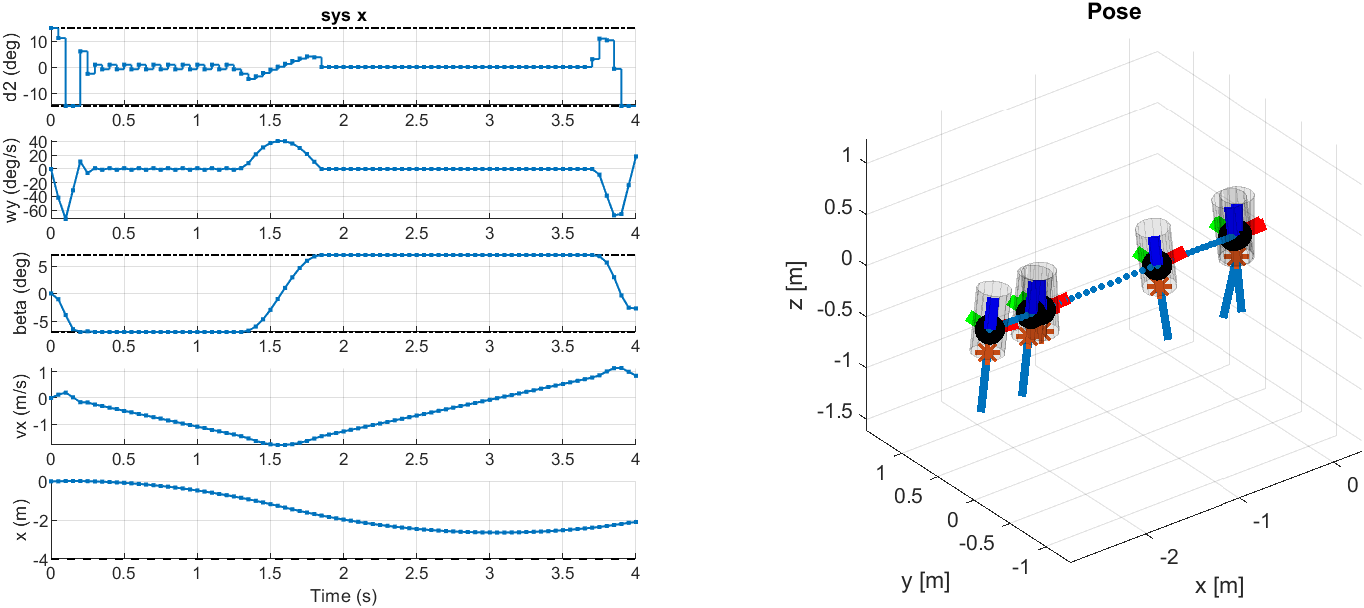
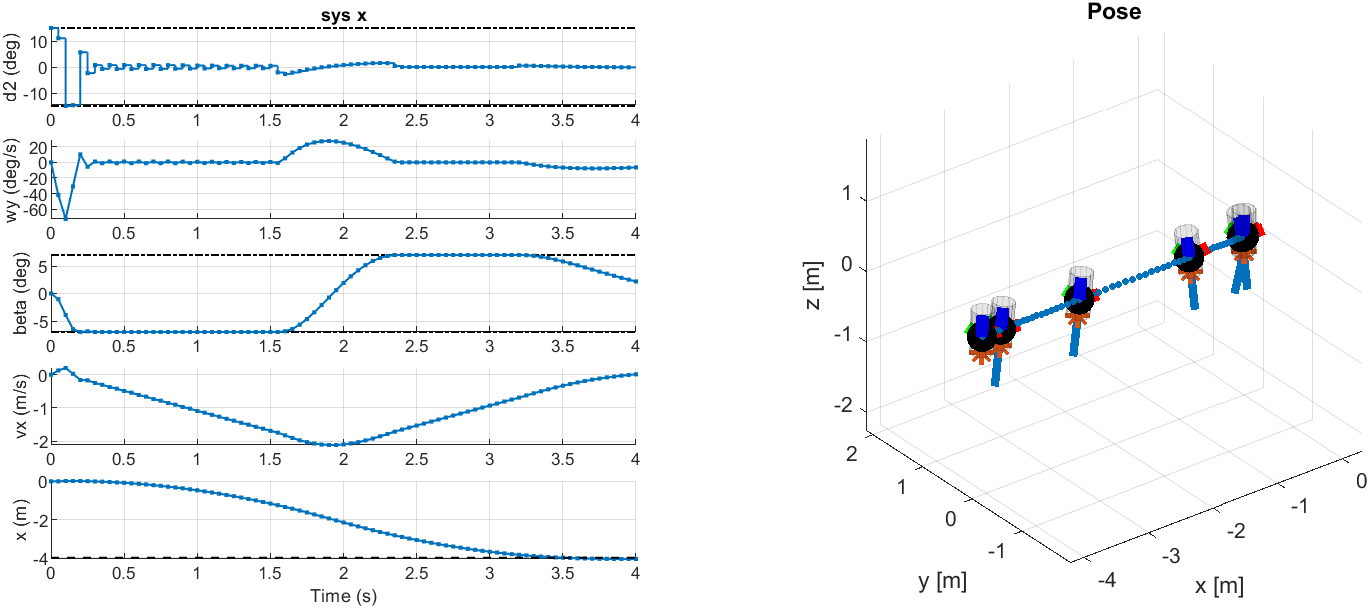
adjusted 4.1 and 4.2

diff --git a/rocket_project/Deliverable_4_2/MpcControl_roll.m b/rocket_project/Deliverable_4_2/MpcControl_roll.m
@@ -33,11 +33,32 @@ classdef MpcControl_roll < MpcControlBase
             %       the DISCRETE-TIME MODEL of your system
             
             % SET THE PROBLEM CONSTRAINTS con AND THE OBJECTIVE obj HERE
-            Q = 10*eye(nx);
-%             Q(1,1) = 10*Q(1,1);   % speed
-            Q(2,2) = Q(2,2)*10;     % position
-            R = eye(nu);
-            [~,Pf,~] = dlqr(mpc.A, mpc.B, Q, R);
+            
+            Hu = [1; -1];
+            hu = [20; 20];
+
+            Q = diag([10, 100]);    % sharp EPFL
+            R = diag(1);            % sharp EPFL
+            Q = diag([1, 10]);      % good EPFL
+            R = diag(0.01);          % good EPFL
+%             Q = diag([1, 50]);    % ~weights from 3.1
+%             R = diag(0.1);        % ~weights from 3.1
+            
+             % K is the LQR controller, P is the final cost
+            [K,Pf,~] = dlqr(mpc.A, mpc.B, Q, R);
+            K = -K;
+            Ak = mpc.A+mpc.B*K;
+
+            % the combined constraints of state and input with controller K
+            % in closed loop
+            Hxu = Hu*K;
+            hxu = hu;
+
+            % the terminal set of the controller K in closed loop
+            Poly_xu = polytope(Hxu, hxu);
+            term_set = max_contr_invar_set(Poly_xu, Ak);
+            [Hxf, hxf] = double(term_set); % terminal constraint
+
             obj = 0;
             con = [];
             for k = 1:N-1
@@ -45,7 +66,8 @@ classdef MpcControl_roll < MpcControlBase
                 obj   = obj + (X(:,k)-x_ref)'*Q*(X(:,k)-x_ref) + (U(:,k)-u_ref)'*R*(U(:,k)-u_ref);
             end
             obj = obj + (X(:,N)-x_ref)'*Pf*(X(:,N)-x_ref);
-            
+            con = [con, Hxf*X(:,N) <= hxf];
+
             % YOUR CODE HERE YOUR CODE HERE YOUR CODE HERE YOUR CODE HERE
             %%%%%%%%%%%%%%%%%%%%%%%%%%%%%%%%%%%%%%%%%%%%%%%%%%%%%%%%%%%%%%%
             
@@ -79,7 +101,7 @@ classdef MpcControl_roll < MpcControlBase
             Q = eye(nx);
             obj = (xs - ref.*[0;1])'*Q*(xs - ref.*[0;1]);
             con = [xs == mpc.A*xs + mpc.B*us, us >= -20, us <= 20];
-
+%             con = [xs-ref == mpc.A*(xs-ref) + mpc.B*us, us >= -20, us <= 20];
             % YOUR CODE HERE YOUR CODE HERE YOUR CODE HERE YOUR CODE HERE
             %%%%%%%%%%%%%%%%%%%%%%%%%%%%%%%%%%%%%%%%%%%%%%%%%%%%%%%%%%%%%%%
             

diff --git a/rocket_project/Deliverable_4_1/MpcControl_z.m b/rocket_project/Deliverable_4_1/MpcControl_z.m
@@ -51,25 +51,23 @@ classdef MpcControl_z < MpcControlBase
             hu = [80-56.66667; -(50-56.66667)];
 
             % costs for the LQR controller
-            Q = 10.*eye(nx);
-            Q(2,2) = Q(2,2)*50;
-            Q(1,1) = Q(1,1);
-            R = 0.1*eye(nu);
+            Q = diag([2, 500]);
+            R = diag(0.1);
 
             % K is the LQR controller, P is the final cost
             [K,Pf,~] = dlqr(mpc.A, mpc.B, Q, R);
-%             K = -K;
-%             Ak = mpc.A+mpc.B*K;
+            K = -K;
+            Ak = mpc.A+mpc.B*K;
 
             % the combined constraints of state and input with controller K
             % in closed loop
-%             Hxu = Hu*K;
-%             hxu = hu;
+            Hxu = Hu*K;
+            hxu = hu;
 
             % the terminal set of the controller K in closed loop
-%             Poly_xu = polytope(Hxu, hxu);
-%             term_set = max_contr_invar_set(Poly_xu, Ak);
-%             [Hxf, hxf] = double(term_set); % terminal constraint
+            Poly_xu = polytope(Hxu, hxu);
+            term_set = max_contr_invar_set(Poly_xu, Ak);
+            [Hxf, hxf] = double(term_set); % terminal constraint
 
             % SET THE PROBLEM CONSTRAINTS con AND THE OBJECTIVE obj HERE
             obj = 0;
@@ -81,7 +79,7 @@ classdef MpcControl_z < MpcControlBase
                 obj   = obj + (X(:,k)-x_ref)'*Q*(X(:,k)-x_ref) + (U(:,k)-u_ref)'*R*(U(:,k)-u_ref);
             end
             obj = obj + (X(:,N)-x_ref)'*Pf*(X(:,N)-x_ref);
-%             con = [con, Hxf*X(:,N) <= hxf];
+            con = [con, Hxf*X(:,N) <= hxf];
             
             % YOUR CODE HERE YOUR CODE HERE YOUR CODE HERE YOUR CODE HERE
             %%%%%%%%%%%%%%%%%%%%%%%%%%%%%%%%%%%%%%%%%%%%%%%%%%%%%%%%%%%%%%%

diff --git a/rocket_project/Deliverable_3_1/MpcControl_roll.m b/rocket_project/Deliverable_3_1/MpcControl_roll.m
@@ -32,9 +32,34 @@ classdef MpcControl_roll < MpcControlBase
             % NOTE: The matrices mpc.A, mpc.B, mpc.C and mpc.D are
             %       the DISCRETE-TIME MODEL of your system
             
+            % constraints
+            Hu = [1; -1];
+            hu = [20; 20];
+
             % SET THE PROBLEM CONSTRAINTS con AND THE OBJECTIVE obj HERE
             Q = diag([1,20]);
             R = diag(0.1);
+
+             % K is the LQR controller, P is the final cost
+            [K,Pf,~] = dlqr(mpc.A, mpc.B, Q, R);
+            K = -K;
+            Ak = mpc.A+mpc.B*K;
+
+            % the combined constraints of state and input with controller K
+            % in closed loop
+            Hxu = Hu*K;
+            hxu = hu;
+
+            % the terminal set of the controller K in closed loop
+            Poly_xu = polytope(Hxu, hxu);
+            term_set = max_contr_invar_set(Poly_xu, Ak);
+            [Hxf, hxf] = double(term_set); % terminal constraint
+
+             % plot the polytope
+            f = figure();
+            term_set.plot()
+            title("Terminal set polytope - roll")
+            exportgraphics(f, "Deliverable_3_1/Figures/3.1_roll_terminal_set.png")
 
             [~,Pf,~] = dlqr(mpc.A, mpc.B, Q, R);
             obj = 0;
@@ -44,7 +69,8 @@ classdef MpcControl_roll < MpcControlBase
                 obj   = obj + (X(:,k)-x_ref)'*Q*(X(:,k)-x_ref) + (U(:,k)-u_ref)'*R*(U(:,k)-u_ref);
             end
             obj = obj + X(:,N)'*Pf*X(:,N);
-            
+            con = [con, Hxf*X(:,N) <= hxf];
+
             % YOUR CODE HERE YOUR CODE HERE YOUR CODE HERE YOUR CODE HERE
             %%%%%%%%%%%%%%%%%%%%%%%%%%%%%%%%%%%%%%%%%%%%%%%%%%%%%%%%%%%%%%%
             

diff --git a/rocket_project/Deliverable_4_1/MpcControl_roll.m b/rocket_project/Deliverable_4_1/MpcControl_roll.m
@@ -33,10 +33,27 @@ classdef MpcControl_roll < MpcControlBase
             %       the DISCRETE-TIME MODEL of your system
             
             % SET THE PROBLEM CONSTRAINTS con AND THE OBJECTIVE obj HERE
-            Q = 10*eye(nx);
-            Q(2,2) = 10*Q(2,2);
-            R = eye(nu);
-            [~,Pf,~] = dlqr(mpc.A, mpc.B, Q, R);
+            Hu = [1; -1];
+            hu = [20; 20];
+            
+            Q = diag([1, 20]);
+            R = diag(0.1);
+            
+             % K is the LQR controller, P is the final cost
+            [K,Pf,~] = dlqr(mpc.A, mpc.B, Q, R);
+            K = -K;
+            Ak = mpc.A+mpc.B*K;
+
+            % the combined constraints of state and input with controller K
+            % in closed loop
+            Hxu = Hu*K;
+            hxu = hu;
+
+            % the terminal set of the controller K in closed loop
+            Poly_xu = polytope(Hxu, hxu);
+            term_set = max_contr_invar_set(Poly_xu, Ak);
+            [Hxf, hxf] = double(term_set); % terminal constraint
+
             obj = 0;
             con = [];
             for k = 1:N-1
@@ -44,6 +61,7 @@ classdef MpcControl_roll < MpcControlBase
                 obj   = obj + (X(:,k)-x_ref)'*Q*(X(:,k)-x_ref) + (U(:,k)-u_ref)'*R*(U(:,k)-u_ref);
             end
             obj = obj + (X(:,N)-x_ref)'*Pf*(X(:,N)-x_ref);
+            con = [con, Hxf*X(:,N) <= hxf];
             
             % YOUR CODE HERE YOUR CODE HERE YOUR CODE HERE YOUR CODE HERE
             %%%%%%%%%%%%%%%%%%%%%%%%%%%%%%%%%%%%%%%%%%%%%%%%%%%%%%%%%%%%%%%

diff --git a/rocket_project/Deliverable_4_2/MpcControl_y.m b/rocket_project/Deliverable_4_2/MpcControl_y.m
@@ -41,12 +41,14 @@ classdef MpcControl_y < MpcControlBase
             hu = [deg2rad(15); deg2rad(15)]; % constraint on the input d1
 
             % costs for the LQR controller
-            Q = 1*eye(nx);
-%             Q(3,3) = Q(3,3)*0.2;  % speed
-            Q(4,4) = Q(4,4)*10;     % position
-            R = eye(nu);
-            S = 1*eye(2);         % slack - doesn't seem to do a diff with 1 or 100
-          
+            Q = diag([1, 1, 1, 10]);    % sharp EPFL
+            R = diag(1);                % sharp EPFL
+            Q = diag([1, 1, 0.2, 10]);  % good EPFL
+            R = diag(10);               % good EPFL
+%             Q = diag([5, 5, 1, 100]); % ~weights from 3.1
+%             R = diag(5);              % ~weights from 3.1
+            S = diag([1,1]);         % slack - doesn't seem to do a diff with 1 or 100
+           
             % K is the LQR controller, P is the final cost
             [K,Pf,~] = dlqr(mpc.A, mpc.B, Q, R);
             K = -K;
@@ -116,7 +118,7 @@ classdef MpcControl_y < MpcControlBase
             Q = eye(nx);
             obj = (xs - ref.*[0;0;0;1])'*Q*(xs - ref.*[0;0;0;1]);
             con = [xs == mpc.A*xs + mpc.B*us, Hx*xs <= hx, Hu*us <= hu];
-            
+%             con = [xs - ref.*[0;0;0;1] == mpc.A*(xs- ref.*[0;0;0;1]) + mpc.B*us, Hx*(xs- ref.*[0;0;0;1]) <= hx, Hu*us <= hu];
             % YOUR CODE HERE YOUR CODE HERE YOUR CODE HERE YOUR CODE HERE
             %%%%%%%%%%%%%%%%%%%%%%%%%%%%%%%%%%%%%%%%%%%%%%%%%%%%%%%%%%%%%%%
             

diff --git a/rocket_project/Deliverable_4_2/MpcControl_x.m b/rocket_project/Deliverable_4_2/MpcControl_x.m
@@ -40,11 +40,13 @@ classdef MpcControl_x < MpcControlBase
             hu = [deg2rad(15); deg2rad(15)];
 
             % costs for the LQR controller
-            Q = 1*eye(nx);
-%             Q(3,3) = Q(3,3)*0.2;  % speed
-            Q(4,4) = Q(4,4)*10;     % position
-            R = eye(nu);
-            S = 1*eye(2);         % slack - doesn't seem to do a diff with 1 or 100
+            Q = diag([1, 1, 1, 10]);    % sharp EPFL
+            R = diag(1);                % sharp EPFL
+            Q = diag([1, 1, 0.2, 10]);  % good EPFL
+            R = diag(10);               % good EPFL
+%             Q = diag([5, 5, 1, 100]); % ~weights from 3.1
+%             R = diag(5);              % ~weights from 3.1
+            S = diag([1,1]);         % slack - doesn't seem to do a diff with 1 or 100
            
             % K is the LQR controller, P is the final cost
             [K,Pf,~] = dlqr(mpc.A, mpc.B, Q, R);
@@ -114,7 +116,7 @@ classdef MpcControl_x < MpcControlBase
             Q = eye(nx);
             obj = (xs - ref.*[0;0;0;1])'*Q*(xs - ref.*[0;0;0;1]);
             con = [xs == mpc.A*xs + mpc.B*us, Hx*xs <= hx, Hu*us <= hu];
-            
+%             con = [xs - ref.*[0;0;0;1] == mpc.A*(xs- ref.*[0;0;0;1]) + mpc.B*us, Hx*(xs- ref.*[0;0;0;1]) <= hx, Hu*us <= hu];
             % YOUR CODE HERE YOUR CODE HERE YOUR CODE HERE YOUR CODE HERE
             %%%%%%%%%%%%%%%%%%%%%%%%%%%%%%%%%%%%%%%%%%%%%%%%%%%%%%%%%%%%%%%
             

diff --git a/rocket_project/Deliverable_3_2/MpcControl_roll.m b/rocket_project/Deliverable_3_2/MpcControl_roll.m
@@ -33,8 +33,27 @@ classdef MpcControl_roll < MpcControlBase
             %       the DISCRETE-TIME MODEL of your system
             
             % SET THE PROBLEM CONSTRAINTS con AND THE OBJECTIVE obj HERE
+             % constraints
+            Hu = [1; -1];
+            hu = [20; 20];
+
             Q = diag([1,20]);
             R = diag(0.1);
+
+             % K is the LQR controller, P is the final cost
+            [K,Pf,~] = dlqr(mpc.A, mpc.B, Q, R);
+            K = -K;
+            Ak = mpc.A+mpc.B*K;
+
+            % the combined constraints of state and input with controller K
+            % in closed loop
+            Hxu = Hu*K;
+            hxu = hu;
+
+            % the terminal set of the controller K in closed loop
+            Poly_xu = polytope(Hxu, hxu);
+            term_set = max_contr_invar_set(Poly_xu, Ak);
+            [Hxf, hxf] = double(term_set); % terminal constraint
 
             [~,Pf,~] = dlqr(mpc.A, mpc.B, Q, R);
             obj = 0;
@@ -44,7 +63,8 @@ classdef MpcControl_roll < MpcControlBase
                 obj   = obj + (X(:,k)-x_ref)'*Q*(X(:,k)-x_ref) + (U(:,k)-u_ref)'*R*(U(:,k)-u_ref);
             end
             obj = obj + (X(:,N)-x_ref)'*Pf*(X(:,N)-x_ref);
-            
+            con = [con, Hxf*X(:,N) <= hxf];
+
             % YOUR CODE HERE YOUR CODE HERE YOUR CODE HERE YOUR CODE HERE
             %%%%%%%%%%%%%%%%%%%%%%%%%%%%%%%%%%%%%%%%%%%%%%%%%%%%%%%%%%%%%%%
             

diff --git a/rocket_project/Deliverable_4_2/MpcControl_z.m b/rocket_project/Deliverable_4_2/MpcControl_z.m
@@ -51,10 +51,12 @@ classdef MpcControl_z < MpcControlBase
             hu = [80-56.66667; -(50-56.66667)];
 
             % costs for the LQR controller
-            Q = 10.*eye(nx);
-            Q(1,1) = Q(1,1)*1;      % speed
-            Q(2,2) = Q(2,2)*100;   % position
-            R = eye(nu);
+            Q = diag([10, 1000]);   % sharp EPFL
+            R = diag(1);            % sharp EPFL
+            Q = diag([10, 200]);    % good EPFL
+            R = diag(0.0001);       % good EPFL
+%             Q = diag([5, 700]);   % ~weights from 3.1
+%             R = diag(0.1);        % ~weights from 3.1
 
             % K is the LQR controller, P is the final cost
             [K,Pf,~] = dlqr(mpc.A, mpc.B, Q, R);
@@ -126,10 +128,10 @@ classdef MpcControl_z < MpcControlBase
 
             Qt_pos = 1;  % Q target position
             obj = (mpc.C*xs-ref)'*Qt_pos*(mpc.C*xs-ref);
-%             Qt_states = eye(nx); % Q target states
-%             obj = (xs-ref.*[0;1])'*Qt_states*(xs-ref.*[0;1]);
+%             obj = (mpc.C*(xs-ref))'*Qt_pos*(mpc.C*(xs-ref));
             con = [xs == mpc.A*xs + mpc.B*us, Hu*us <= hu];
-
+%             con = [xs-ref == mpc.A*(xs-ref) + mpc.B*us, Hu*us <= hu];
+            
             % YOUR CODE HERE YOUR CODE HERE YOUR CODE HERE YOUR CODE HERE
             %%%%%%%%%%%%%%%%%%%%%%%%%%%%%%%%%%%%%%%%%%%%%%%%%%%%%%%%%%%%%%%
             

diff --git a/rocket_project/Deliverable_3_2/MpcControl_x.m b/rocket_project/Deliverable_3_2/MpcControl_x.m
@@ -67,7 +67,7 @@ classdef MpcControl_x < MpcControlBase
                 obj   = obj + (X(:,k)-x_ref)'*Q*(X(:,k)-x_ref) + (U(:,k)-u_ref)'*R*(U(:,k)-u_ref);
             end
             obj = obj + (X(:,N)-x_ref)'*Pf*(X(:,N)-x_ref);
-            con = [con, Hxf*X(:,N) <= hxf];
+            con = [con, Hxf*X(:,N) <= hxf+Hxf*x_ref];
             
             % YOUR CODE HERE YOUR CODE HERE YOUR CODE HERE YOUR CODE HERE
             %%%%%%%%%%%%%%%%%%%%%%%%%%%%%%%%%%%%%%%%%%%%%%%%%%%%%%%%%%%%%%%
@@ -109,6 +109,7 @@ classdef MpcControl_x < MpcControlBase
             Q = eye(nx);
             obj = (xs - ref.*[0;0;0;1])'*Q*(xs - ref.*[0;0;0;1]);
             con = [xs == mpc.A*xs + mpc.B*us, Hx*xs <= hx, Hu*us <= hu];
+%             con = [xs - ref.*[0;0;0;1] == mpc.A*(xs- ref.*[0;0;0;1]) + mpc.B*us, Hx*(xs- ref.*[0;0;0;1]) <= hx, Hu*us <= hu];
             
             % YOUR CODE HERE YOUR CODE HERE YOUR CODE HERE YOUR CODE HERE
             %%%%%%%%%%%%%%%%%%%%%%%%%%%%%%%%%%%%%%%%%%%%%%%%%%%%%%%%%%%%%%%

diff --git a/rocket_project/Deliverable_3_1/MpcControl_x.m b/rocket_project/Deliverable_3_1/MpcControl_x.m
@@ -66,12 +66,15 @@ classdef MpcControl_x < MpcControlBase
             term_set.projection(2:3).plot();
             title("Dims 2 & 3")
             subplot(2,3,3)
+            term_set.projection([2,4]).plot();
+            title("Dims 2 & 4")
+            subplot(2,3,4)
             term_set.projection(3:4).plot();
             title("Dims 3 & 4")
-            subplot(2,3,4)
+            subplot(2,3,5)
             term_set.projection([3,1]).plot();
             title("Dims 3 & 1")
-            subplot(2,3,5)
+            subplot(2,3,6)
             term_set.projection([4,1]).plot();
             title("Dims 4 & 1")
             exportgraphics(f, "Deliverable_3_1/Figures/3.1_x_terminal_set.png")

diff --git a/rocket_project/Deliverable_3_1/MpcControl_y.m b/rocket_project/Deliverable_3_1/MpcControl_y.m
@@ -67,12 +67,15 @@ classdef MpcControl_y < MpcControlBase
             term_set.projection(2:3).plot();
             title("Dims 2 & 3")
             subplot(2,3,3)
+            term_set.projection([2,4]).plot();
+            title("Dims 2 & 4")
+            subplot(2,3,4)
             term_set.projection(3:4).plot();
             title("Dims 3 & 4")
-            subplot(2,3,4)
+            subplot(2,3,5)
             term_set.projection([3,1]).plot();
             title("Dims 3 & 1")
-            subplot(2,3,5)
+            subplot(2,3,6)
             term_set.projection([4,1]).plot();
             title("Dims 4 & 1")
             exportgraphics(f, "Deliverable_3_1/Figures/3.1_y_terminal_set.png")

diff --git a/rocket_project/Deliverable_3_1/MpcControl_z.m b/rocket_project/Deliverable_3_1/MpcControl_z.m
@@ -52,7 +52,7 @@ classdef MpcControl_z < MpcControlBase
 
             % costs for the LQR controller
             Q = diag([2,10]);
-            R = 0.1*diag(1);
+            R = diag(0.1);
 
             % K is the LQR controller, P is the final cost
             [K,Pf,~] = dlqr(mpc.A, mpc.B, Q, R);
@@ -71,8 +71,8 @@ classdef MpcControl_z < MpcControlBase
 
              % plot the polytope
             f = figure();
-            title("Terminal set polytope - z")
             term_set.plot()
+            title("Terminal set polytope - z")
             exportgraphics(f, "Deliverable_3_1/Figures/3.1_z_terminal_set.png")
 
             % SET THE PROBLEM CONSTRAINTS con AND THE OBJECTIVE obj HERE
